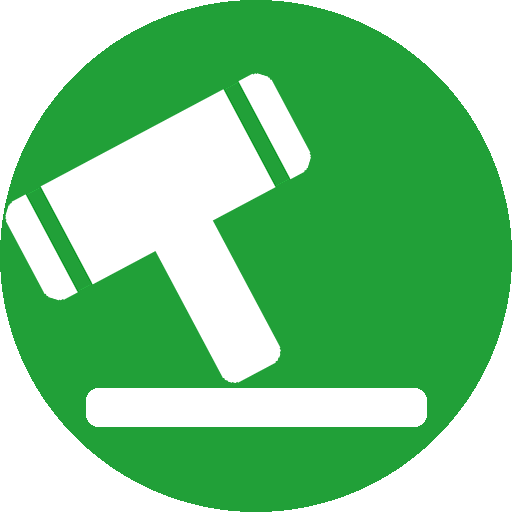
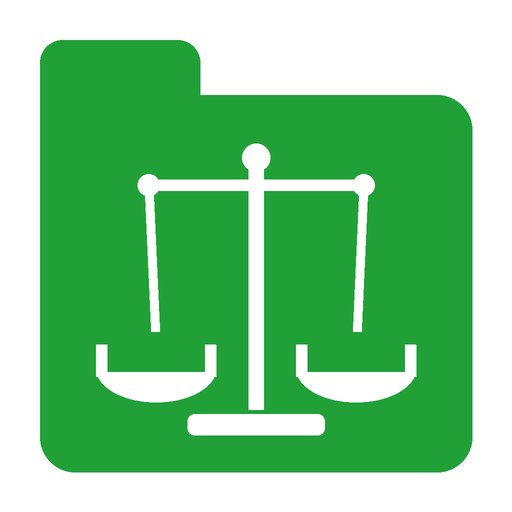
🎨 PWA: иконка-папка (вернул), bottom-bar тулбар, чище drawer и хедер
• Иконка: вернул «папка+весы» из коммита 1a2dc1e (генератор молотка
  удалён вместе со scripts/generate_icon.py).
• Toolbar (поиск + «Фильтры»): закреплён внизу как нативный bottom-bar
  PWA, с safe-area-inset-bottom для iPhone home-indicator, чёткой
  верхней границей и тенью — выделен явно в обеих темах.
• Header на мобиле: однострочный (лого + заголовок-2 строки + кнопки
  справа), убрана пустота между brand и actions.
• Дайджест: заголовок «📰 Дайджест dd.mm.yyyy», вырезаем дублирующий
  «Дайджест ...» в начале и финальную ссылку «Открыть дашборд» (мы
  и так в нём). Sanitizer расширен под все Telegram-теги
  (b/i/u/s/code/pre/strong/em/a/br).
• Drawer: кнопка «Карточка суда» → «Карточка дела», на 375px не
  переносится (flex-wrap:nowrap, компактный padding). Убрана строка
  «N из M · категория» в шапке drawer-а — оставлен только номер.
• Toolbar-left: поиск + «Фильтры» в одну строку с симметричными
  отступами слева/справа (16px).
• .badge-awaiting: цвет — blue-100/700 (читается в обеих темах).

diff --git a/styles.css b/styles.css
@@ -600,7 +600,7 @@ tbody tr.accent-archive td:first-child::before { background:var(--gray-300); }
 .badge-to-fi     { background:var(--red-100); color:var(--red-700); border:1px solid #fecaca; font-weight:var(--fw-bold); }
 .badge-suspended { background:#ffedd5; color:#c2410c; }
 .badge-paused    { background:var(--pink-100); color:var(--pink-700); }
-.badge-awaiting  { background:var(--gray-100); color:var(--fg-2); }
+.badge-awaiting  { background:var(--blue-100); color:var(--blue-700); }
 
 .status-cell { display:flex; flex-direction:column; gap:3px; align-items:flex-start; }
 .status-date { font-family:var(--font-mono); font-size:var(--fs-2xs); color:var(--fg-2); font-weight:var(--fw-semibold); }
@@ -821,11 +821,15 @@ tr.detail-row { display:none; }
 @media (max-width: 768px) {
   .app-header { padding:0 16px; }
   .app-main { padding:16px; }
-  .header-inner { flex-direction:column; align-items:flex-start; gap:10px; padding:14px 0; }
-  .header-inner .header-brand { transition:max-height 250ms var(--ease-out), opacity 200ms var(--ease-out), margin 250ms var(--ease-out); max-height:60px; opacity:1; overflow:hidden; }
-  .app-header.scrolled .header-inner .header-brand { max-height:0; opacity:0; margin:0; }
-  .app-header.scrolled .header-inner { gap:0; padding:8px 0; }
-  .header-actions { width:100%; justify-content:space-between; }
+  /* Однострочный header на мобиле: лого + сжатый заголовок + кнопки справа.
+     Старый column-layout оставлял пустоту между brand и actions. */
+  .header-inner { flex-direction:row; align-items:center; gap:10px; padding:10px 0; }
+  .header-inner .header-brand { flex:1 1 auto; min-width:0; transition:opacity 200ms var(--ease-out); }
+  .header-brand .header-title { font-size:var(--fs-md); line-height:1.2; display:-webkit-box; -webkit-line-clamp:2; -webkit-box-orient:vertical; overflow:hidden; }
+  .header-logo { width:32px; height:32px; flex-shrink:0; }
+  .app-header.scrolled .header-inner { padding:8px 0; }
+  .app-header.scrolled .header-brand .header-title { -webkit-line-clamp:1; }
+  .header-actions { width:auto; justify-content:flex-end; gap:8px; flex-shrink:0; }
   .stats-mobile-summary,
   .stats-primary,
   .stats-primary.mobile-visible,
@@ -842,8 +846,13 @@ tr.detail-row { display:none; }
   .app-main { overflow-x:hidden; }
   .up-time-value { font-size:var(--fs-md); }
   .up-date { font-size:var(--fs-xs); }
-  .toolbar { flex-direction:column; align-items:stretch; }
+  /* Toolbar (поиск + фильтры) приклеен к низу экрана как нативный bottom-bar
+     PWA. Учитываем safe-area-inset-bottom для iPhone home-indicator. */
+  .toolbar { position:fixed; left:0; right:0; bottom:0; flex-direction:column; align-items:stretch; padding:12px 16px calc(12px + env(safe-area-inset-bottom, 0px)); margin:0; background:var(--bg-3); border-top:1px solid var(--border-strong); box-shadow:0 -10px 28px rgba(0,0,0,0.32), 0 -1px 0 var(--border-strong); z-index:50; gap:8px; }
+  :root[data-theme="dark"] .toolbar { background:#0b0e13; }
   .toolbar-left { flex-direction:row; align-items:stretch; gap:8px; flex-wrap:nowrap; min-width:0; width:100%; flex:0 1 auto; }
+  /* Освобождаем место под закреплённой панелью, чтобы контент не перекрывался. */
+  .app-main { padding-bottom:calc(88px + env(safe-area-inset-bottom, 0px)); }
   .search-box { flex:1 1 0; min-width:0; }
   .search-box input { min-width:0; }
   .filters-btn { flex:0 0 auto; }
@@ -893,7 +902,9 @@ tr.detail-row { display:none; }
   .tl-item.tl-recent .tl-text { font-size:var(--fs-lg); }
   .tl-item .tl-date { font-size:var(--fs-xs); }
   .drawer-tab { font-size:var(--fs-md); }
-  .drawer-footer .btn-primary, .drawer-footer .btn-secondary { font-size:var(--fs-md); padding:10px 16px; }
+  /* На 375px две кнопки в одну строку: компактный padding, без переноса. */
+  .drawer-footer { flex-wrap:nowrap; gap:8px; padding:12px 16px; }
+  .drawer-footer .btn-primary, .drawer-footer .btn-secondary { font-size:var(--fs-sm); padding:10px 12px; white-space:nowrap; min-width:0; flex:1 1 0; justify-content:center; }
 }
 
 /* Helpers (extracted from inline styles in app.js) */

diff --git a/app.js b/app.js
@@ -1542,7 +1542,6 @@ function renderDrawer(c){
       </div>
       <div class="drawer-title">
         <div class="dt-main">${escHtml(c.caseNumber)}</div>
-        <div class="dt-sub">${idx+1} из ${totalFiltered}${subTitle?' · '+escHtml(subTitle):''}</div>
       </div>
       <button class="drawer-close" onclick="closeDrawer()" title="Закрыть (Esc)">×</button>
     </div>
@@ -1583,7 +1582,7 @@ function renderDrawer(c){
     </div>
     <div class="drawer-footer">
       <button class="btn-secondary" onclick="copyCaseNumber(this,'${escHtml(c.caseNumber).replace(/'/g,'&#39;')}')"><svg viewBox="0 0 24 24" fill="none" stroke="currentColor" stroke-width="2" stroke-linecap="round"><rect x="9" y="9" width="13" height="13" rx="2"/><path d="M5 15H4a2 2 0 01-2-2V4a2 2 0 012-2h9a2 2 0 012 2v1"/></svg>Копировать номер</button>
-      ${c.link?`<a class="btn-primary btn-primary-stretch" href="${escHtml(c.link)}" target="_blank" rel="noopener"><svg viewBox="0 0 24 24" fill="none" stroke="currentColor" stroke-width="2" stroke-linecap="round"><path d="M18 13v6a2 2 0 01-2 2H5a2 2 0 01-2-2V8a2 2 0 012-2h6"/><polyline points="15 3 21 3 21 9"/><line x1="10" y1="14" x2="21" y2="3"/></svg>Карточка суда</a>`:''}
+      ${c.link?`<a class="btn-primary btn-primary-stretch" href="${escHtml(c.link)}" target="_blank" rel="noopener"><svg viewBox="0 0 24 24" fill="none" stroke="currentColor" stroke-width="2" stroke-linecap="round"><path d="M18 13v6a2 2 0 01-2 2H5a2 2 0 01-2-2V8a2 2 0 012-2h6"/><polyline points="15 3 21 3 21 9"/><line x1="10" y1="14" x2="21" y2="3"/></svg>Карточка дела</a>`:''}
     </div>
   `;
 }

diff --git a/sberbank_dashboard.html b/sberbank_dashboard.html
@@ -59,7 +59,7 @@
 <link rel="preconnect" href="https://fonts.googleapis.com">
 <link rel="preconnect" href="https://fonts.gstatic.com" crossorigin>
 <link href="https://fonts.googleapis.com/css2?family=Golos+Text:wght@400;500;600;700&family=JetBrains+Mono:wght@400;500;700&display=swap" rel="stylesheet">
-<link rel="stylesheet" href="styles.css?v=15">
+<link rel="stylesheet" href="styles.css?v=22">
 
 <!-- PWA: установка на главный экран и офлайн-режим -->
 <link rel="manifest" href="manifest.json">
@@ -248,6 +248,6 @@
   </aside>
 </div>
 
-<script src="app.js?v=22" defer></script>
+<script src="app.js?v=24" defer></script>
 </body>
 </html>
